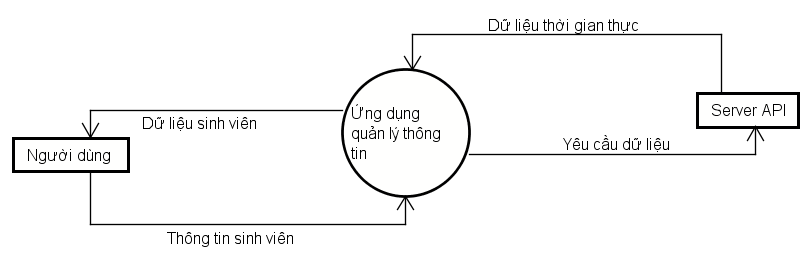
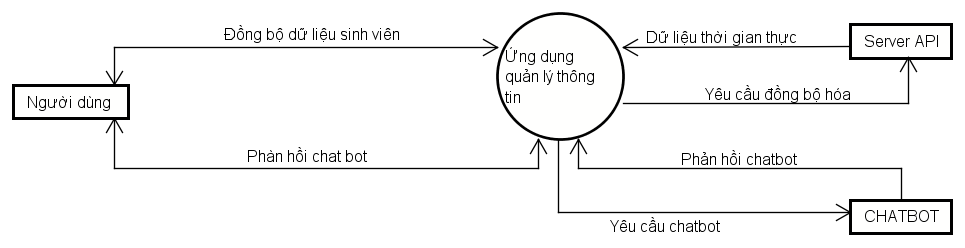
update

Changed region(s): [[0.0, 0.0282, 1.0, 0.9597], [0.2155, 0.9032, 0.3695, 0.9597]]

diff --git a/README.md b/README.md
@@ -1,10 +1,11 @@
 # HapiApp
 ## Phát triển
-Usecase diagram, ERD diagram, Context diagram
+Usecase diagram, ERD diagram, Context diagram, level 0 DFD
   
 ![usecase_diagram.png](https://github.com/lesongvi/HapiApp/raw/main/images/usecase_diagram.png)
-![ERD_diagram.png](https://github.com/lesongvi/HapiApp/raw/main/images/ERD_diagram.png)
 ![ContextDiagram.png](https://github.com/lesongvi/HapiApp/raw/main/images/ContextDiagram.png)
+![ERD_diagram.png](https://github.com/lesongvi/HapiApp/raw/main/images/ERD_diagram.png)
+![0.png](https://github.com/lesongvi/HapiApp/raw/main/images/0.png)
 
 ## API Documentation
 API prefix: **/api/v1**
